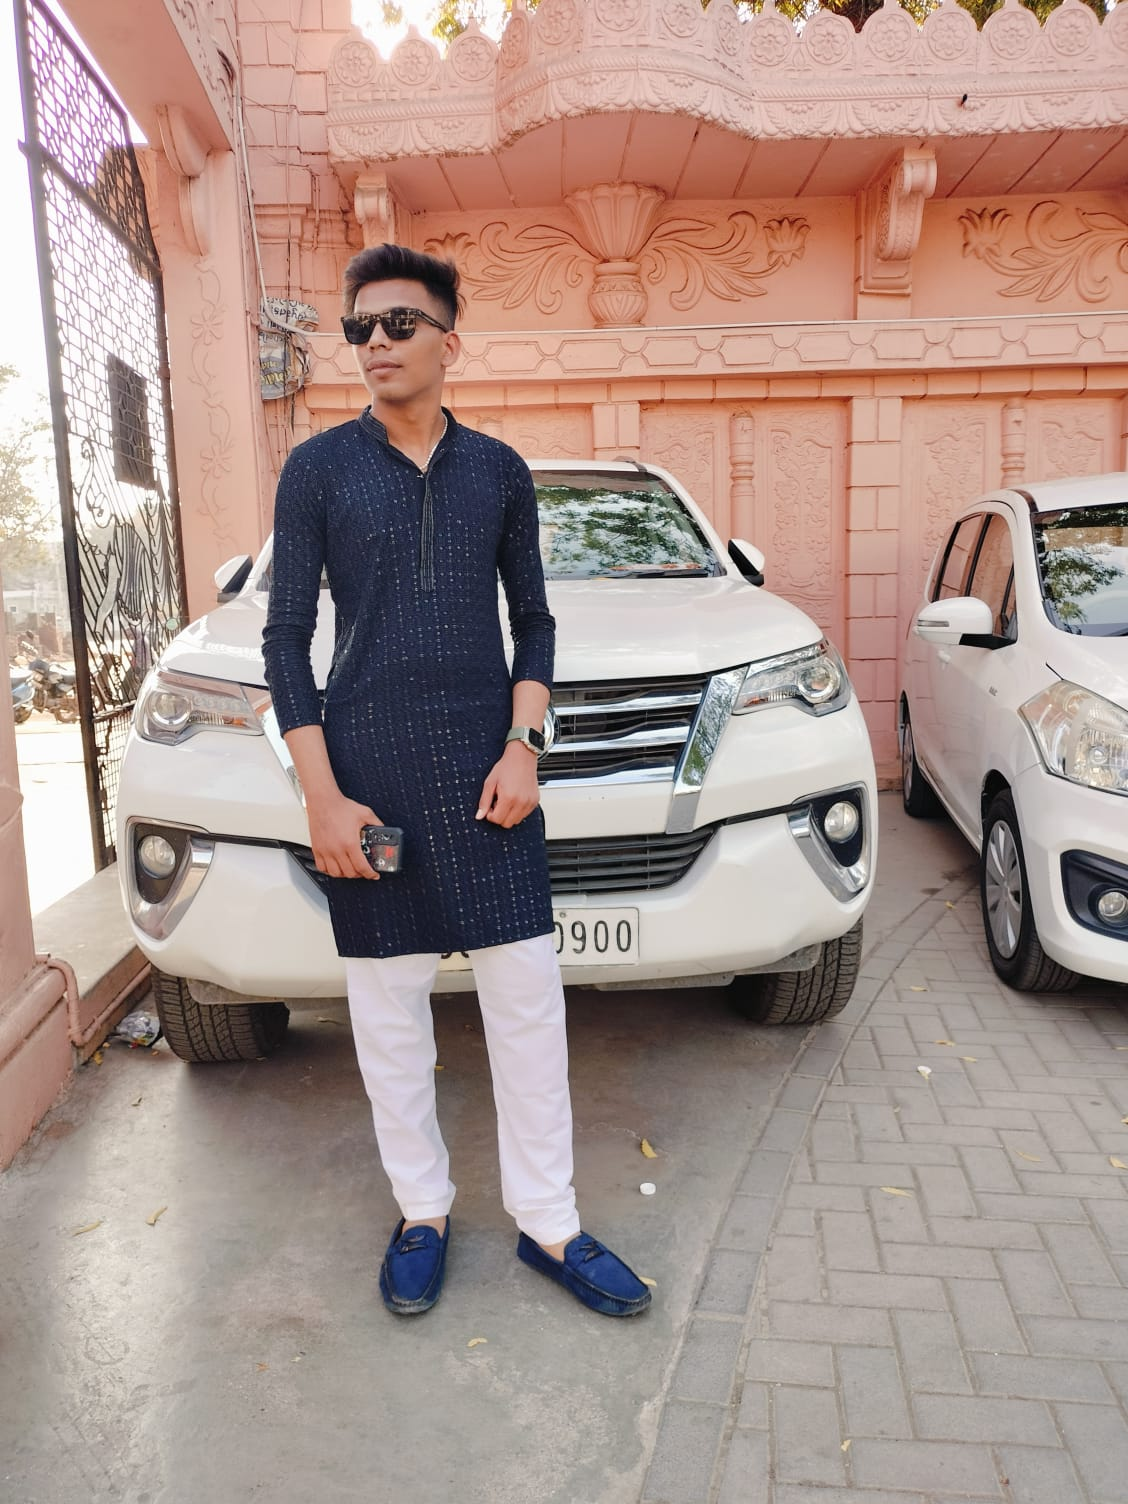
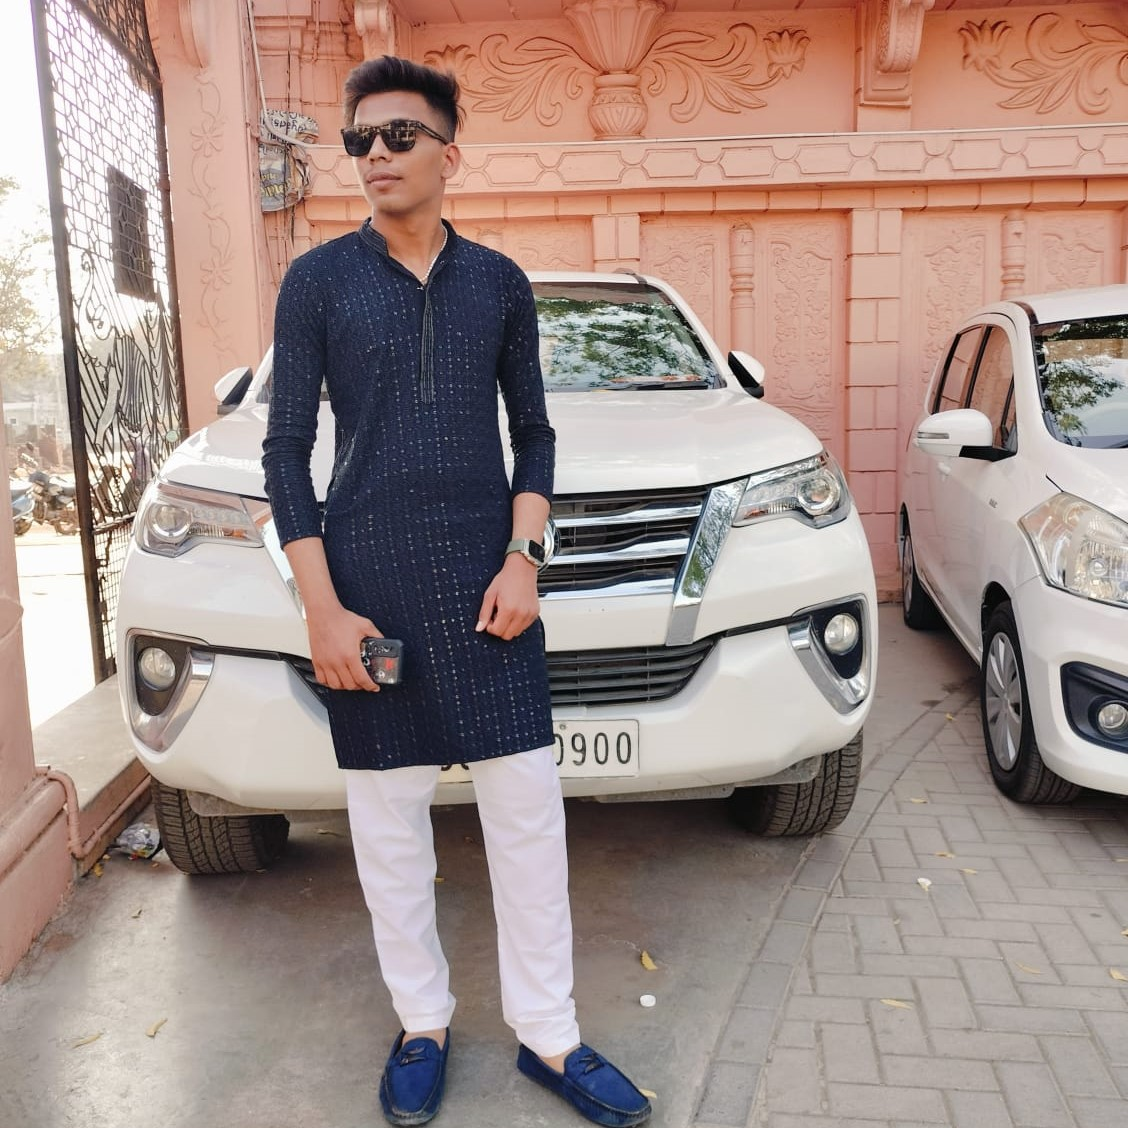
commit

diff --git a/templates/user/Profile.html b/templates/user/Profile.html
@@ -3,17 +3,17 @@
 
 {% block body %}
 <link rel="stylesheet" type="text/css" href="{% static 'css/modal.css' %}">
-
 <div class="container" style="margin-top: 100px;">
     <div class="container">
         <div class="row">
             <div class="col-md-4 mb-4 text-center">
                 {% if profile %}
-                <img src="{{ profile.photo.url }}" class="rounded-circle img" width="400px" height="400px" alt="Profile Photo">
+                <img src="{{ profile.photo.url }}" class="profile" alt="Profile Photo">
                 {% else %}
-                <img src="{% static 'img/profile.jpeg' %}" class="rounded-circle img" width="400px" height="400px" alt="Default Profile Photo">
+                <img src="{% static 'img/profile.jpeg' %}" class="profile" alt="Default Profile Photo">
                 {% endif %}
             </div>
+        
             <div class="col-md-8 mt-5">
                 <h1 class="text-center text-md-left"><u><b>{{ user.username }}</b></u></h1>
                 <h2 class="text-center text-md-left">{{ user.first_name }} {{ user.last_name }}</h2>

diff --git a/static/css/modal.css b/static/css/modal.css
@@ -66,10 +66,12 @@ textarea
 {
     color: red;
 }
-/* .container
-{
-    overflow-y: auto;
-    overflow-y: scroll;
-    scrollbar-width: none;
-    -ms-overflow-style: none;
-} */
+.profile {
+    width: 100%;
+    max-width: 400px; /* Set your desired maximum width */
+    height: auto;
+    aspect-ratio: 1 / 1; /* Ensures the width and height are equal */
+    border-radius: 50%; /* Makes the image round */
+    object-fit: cover; /* Ensures the image covers the entire circle */
+}
+ 
